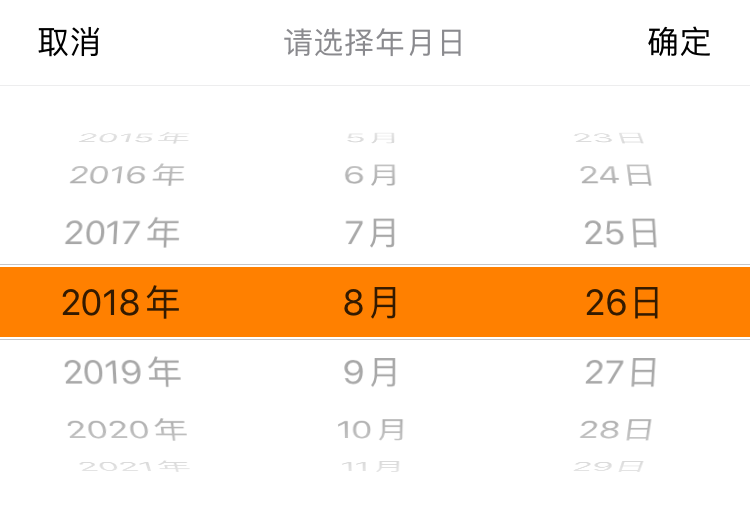
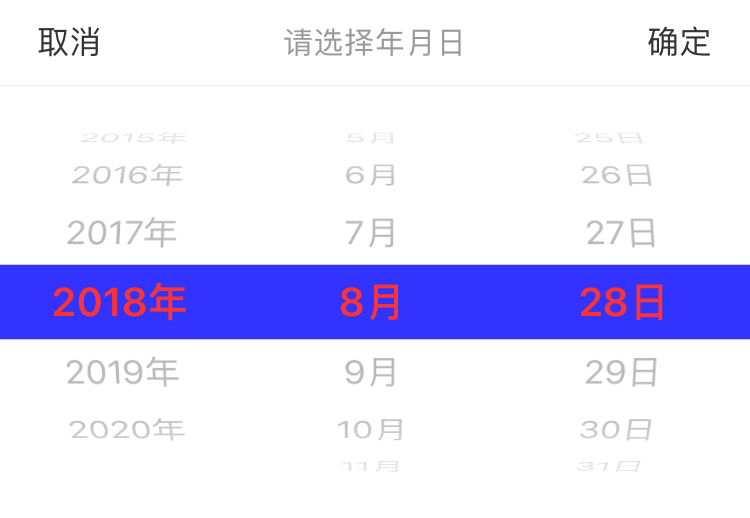
优化代码

diff --git a/BRPickerViewDemo/Classes/Demo/Controller/TestViewController.m b/BRPickerViewDemo/Classes/Demo/Controller/TestViewController.m
@@ -303,12 +303,11 @@ typedef NS_ENUM(NSInteger, BRTimeType) {
             datePickerView.title = @"请选择年月日";
             datePickerView.selectDate = self.birthdaySelectDate;
             datePickerView.minDate = [NSDate br_setYear:1948 month:10 day:1];
-            datePickerView.maxDate = [NSDate date];
+            //datePickerView.maxDate = [NSDate date];
             datePickerView.isAutoSelect = YES;
-            //datePickerView.addToNow = YES;
-            //datePickerView.showToday = YES;
-            //datePickerView.showWeek = YES;
-            datePickerView.showUnitType = BRShowUnitTypeNone;
+            datePickerView.showToday = YES;
+            datePickerView.showWeek = YES;
+            //datePickerView.showUnitType = BRShowUnitTypeNone;
             datePickerView.resultBlock = ^(NSDate *selectDate, NSString *selectValue) {
                 self.birthdaySelectDate = selectDate;
                 self.infoModel.birthdayStr = selectValue;
@@ -320,22 +319,22 @@ typedef NS_ENUM(NSInteger, BRTimeType) {
                 
             };
             
-            // 添加头视图
-            UIView *headerView = [[UIView alloc]initWithFrame:CGRectMake(0, 0, SCREEN_WIDTH, 36)];
-            headerView.backgroundColor = [[UIColor grayColor] colorWithAlphaComponent:0.1f];
-            NSArray *unitArr = @[@"年", @"月", @"日"];
-            for (NSInteger i = 0; i < unitArr.count; i++) {
-                CGFloat width = SCREEN_WIDTH / unitArr.count;
-                CGFloat orginX = i * (SCREEN_WIDTH / unitArr.count);
-                UILabel *label = [[UILabel alloc]initWithFrame:CGRectMake(orginX, 0, width, 36)];
-                label.backgroundColor = [UIColor clearColor];
-                label.textAlignment = NSTextAlignmentCenter;
-                label.font = [UIFont systemFontOfSize:16.0f];
-                label.textColor = [UIColor darkGrayColor];
-                label.text = unitArr[i];
-                [headerView addSubview:label];
-            }
-            datePickerView.pickerHeaderView = headerView;
+//            // 添加头视图
+//            UIView *headerView = [[UIView alloc]initWithFrame:CGRectMake(0, 0, SCREEN_WIDTH, 36)];
+//            headerView.backgroundColor = [[UIColor grayColor] colorWithAlphaComponent:0.1f];
+//            NSArray *unitArr = @[@"年", @"月", @"日"];
+//            for (NSInteger i = 0; i < unitArr.count; i++) {
+//                CGFloat width = SCREEN_WIDTH / unitArr.count;
+//                CGFloat orginX = i * (SCREEN_WIDTH / unitArr.count);
+//                UILabel *label = [[UILabel alloc]initWithFrame:CGRectMake(orginX, 0, width, 36)];
+//                label.backgroundColor = [UIColor clearColor];
+//                label.textAlignment = NSTextAlignmentCenter;
+//                label.font = [UIFont systemFontOfSize:16.0f];
+//                label.textColor = [UIColor darkGrayColor];
+//                label.text = unitArr[i];
+//                [headerView addSubview:label];
+//            }
+//            datePickerView.pickerHeaderView = headerView;
 
             // 添加尾视图
             //UIView *footerView = [[UIView alloc]initWithFrame:CGRectMake(0, 0, SCREEN_WIDTH, 40)];
@@ -347,10 +346,12 @@ typedef NS_ENUM(NSInteger, BRTimeType) {
             //datePickerView.pickerStyle = [BRPickerStyle pickerStyleWithDoneTextColor:[UIColor blueColor]];
             //datePickerView.pickerStyle = [BRPickerStyle pickerStyleWithDoneBtnImage:[UIImage imageNamed:@"icon_close"]];
             
-            // 设置选择器选中行的背景颜色
-            //BRPickerStyle *customStyle = [[BRPickerStyle alloc]init];
-            //customStyle.selectRowColor = [UIColor orangeColor];
-            //datePickerView.pickerStyle = customStyle;
+//            // 设置选择器中间选中行的样式
+//            BRPickerStyle *customStyle = [[BRPickerStyle alloc]init];
+//            customStyle.selectRowColor = [UIColor blueColor];
+//            customStyle.selectRowTextFont = [UIFont boldSystemFontOfSize:20.0f];
+//            customStyle.selectRowTextColor = [UIColor redColor];
+//            datePickerView.pickerStyle = customStyle;
             
             [datePickerView show];
             
@@ -444,10 +445,19 @@ typedef NS_ENUM(NSInteger, BRTimeType) {
                 model.remark = dic[@"remark"];
                 [modelArr addObject:model];
             }
-            [BRStringPickerView showPickerWithTitle:@"融资情况" dataSourceArr:[modelArr copy] selectIndex:1 resultBlock:^(BRResultModel *resultModel) {
+            
+            BRStringPickerView *stringPickerView = [[BRStringPickerView alloc]init];
+            stringPickerView.pickerMode = BRStringPickerComponentSingle;
+            stringPickerView.title = @"融资情况";
+            stringPickerView.dataSourceArr = [modelArr copy];
+            stringPickerView.selectIndex = 2;
+            stringPickerView.resultModelBlock = ^(BRResultModel *resultModel) {
+                NSLog(@"选择的索引：%@", @(resultModel.index));
+                NSLog(@"选择的值：%@", resultModel.value);
                 textField.text = resultModel.value;
-                NSLog(@"选择的值[%@]：%@", @(resultModel.index), resultModel.value);
-            }];
+            };
+            
+            [stringPickerView show];
             
         }
             break;
@@ -457,7 +467,7 @@ typedef NS_ENUM(NSInteger, BRTimeType) {
             BRStringPickerView *stringPickerView = [[BRStringPickerView alloc]init];
             stringPickerView.pickerMode = BRStringPickerComponentMulti;
             stringPickerView.title = @"自定义多列字符串";
-            stringPickerView.dataSourceArr = @[@[@"第1周", @"第2周", @"第3周", @"第4周", @"第5周", @"第6周", @"第7周"], @[@"第1天", @"第2天", @"第3天", @"第4天", @"第5天", @"第6天", @"第7天"]];
+            stringPickerView.dataSourceArr = @[@[@"语文", @"数学", @"英语", @"物理", @"化学", @"生物"], @[@"优秀", @"良好", @"及格", @"不及格"]];
             stringPickerView.selectIndexs = self.otherSelectIndexs;
             //stringPickerView.selectValues = [self.infoModel.otherStr componentsSeparatedByString:@"，"];
             stringPickerView.isAutoSelect = YES;
@@ -467,11 +477,10 @@ typedef NS_ENUM(NSInteger, BRTimeType) {
                 textField.text = self.infoModel.otherStr;
             };
             
-            // 自定义弹框样式
-            BRPickerStyle *customStyle = [BRPickerStyle pickerStyleWithThemeColor:[UIColor orangeColor]];
-            customStyle.pickerTextColor = [UIColor redColor];
-            customStyle.separatorColor = [UIColor redColor];
-            customStyle.titleTextColor = [UIColor redColor];
+            // 设置选择器中间选中行的样式
+            BRPickerStyle *customStyle = [[BRPickerStyle alloc]init];
+            customStyle.selectRowTextFont = [UIFont boldSystemFontOfSize:20.0f];
+            customStyle.selectRowTextColor = [UIColor blueColor];
             stringPickerView.pickerStyle = customStyle;
             
             [stringPickerView show];
